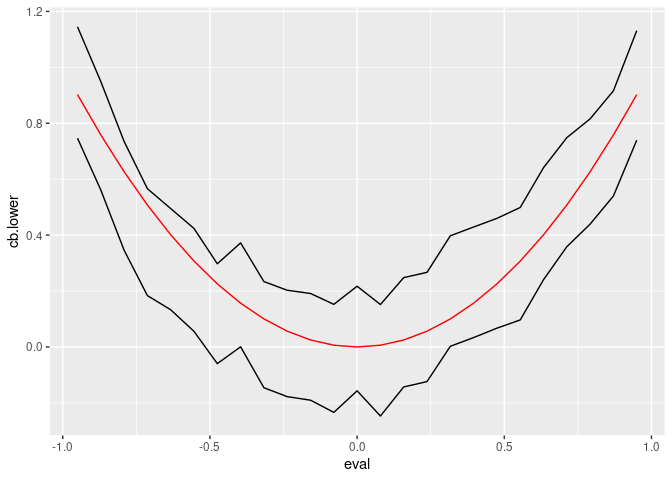
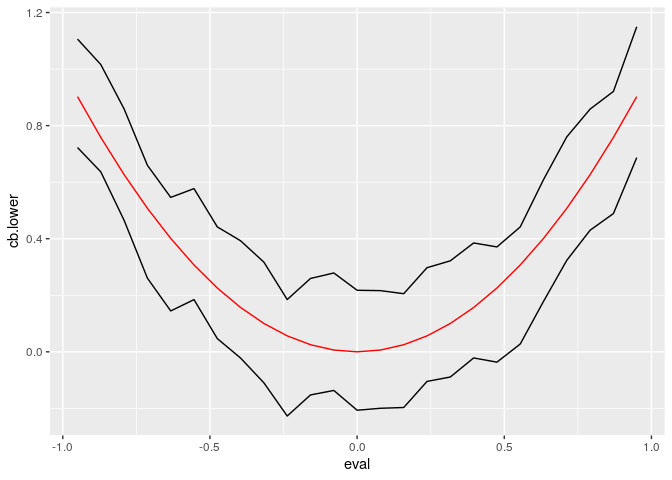
readme small change

diff --git a/README.md b/README.md
@@ -4,10 +4,11 @@
 # HTEBand
 
 <!-- badges: start -->
+
 <!-- badges: end -->
 
 The goal of HTEBand is to construct uniform confidence bands for various
-types of heterogenous treatment effect parameters.
+types of heterogeneous treatment effect parameters.
 
 ## Installation
 
@@ -28,15 +29,44 @@ library(HTEBand)
 library(tidyverse)
 #> ── Attaching packages ─────────────────────────────────────── tidyverse 1.3.1 ──
 #> ✓ ggplot2 3.3.5     ✓ purrr   0.3.4
-#> ✓ tibble  3.1.2     ✓ dplyr   1.0.7
+#> ✓ tibble  3.1.4     ✓ dplyr   1.0.7
 #> ✓ tidyr   1.1.3     ✓ stringr 1.4.0
-#> ✓ readr   1.4.0     ✓ forcats 0.5.1
+#> ✓ readr   2.0.1     ✓ forcats 0.5.1
 #> ── Conflicts ────────────────────────────────────────── tidyverse_conflicts() ──
 #> x dplyr::filter() masks stats::filter()
 #> x dplyr::lag()    masks stats::lag()
 x <- seq(-1, 1, length.out = 500)
 y <- x^2 + rnorm(500, 0, 1/4)
 cb.res <- NpregBand(y, x, 2, 0.95, "L", n.eval = 25, c.method = "supp")
+#> Residual calculation... Done 
+#> Optimal bandwidth calculation... Done 
+#> CB construction... 
+#> 1 / 25 
+#> 2 / 25 
+#> 3 / 25 
+#> 4 / 25 
+#> 5 / 25 
+#> 6 / 25 
+#> 7 / 25 
+#> 8 / 25 
+#> 9 / 25 
+#> 10 / 25 
+#> 11 / 25 
+#> 12 / 25 
+#> 13 / 25 
+#> 14 / 25 
+#> 15 / 25 
+#> 16 / 25 
+#> 17 / 25 
+#> 18 / 25 
+#> 19 / 25 
+#> 20 / 25 
+#> 21 / 25 
+#> 22 / 25 
+#> 23 / 25 
+#> 24 / 25 
+#> 25 / 25 
+#> Done
 cb.res$fx <- (cb.res$eval)^2
 ggplot(data = cb.res) + geom_line(aes(x = eval, y = cb.lower)) +
   geom_line(aes(x = eval, y = cb.upper)) + geom_line(aes(x = eval, y = fx), color = "red")
